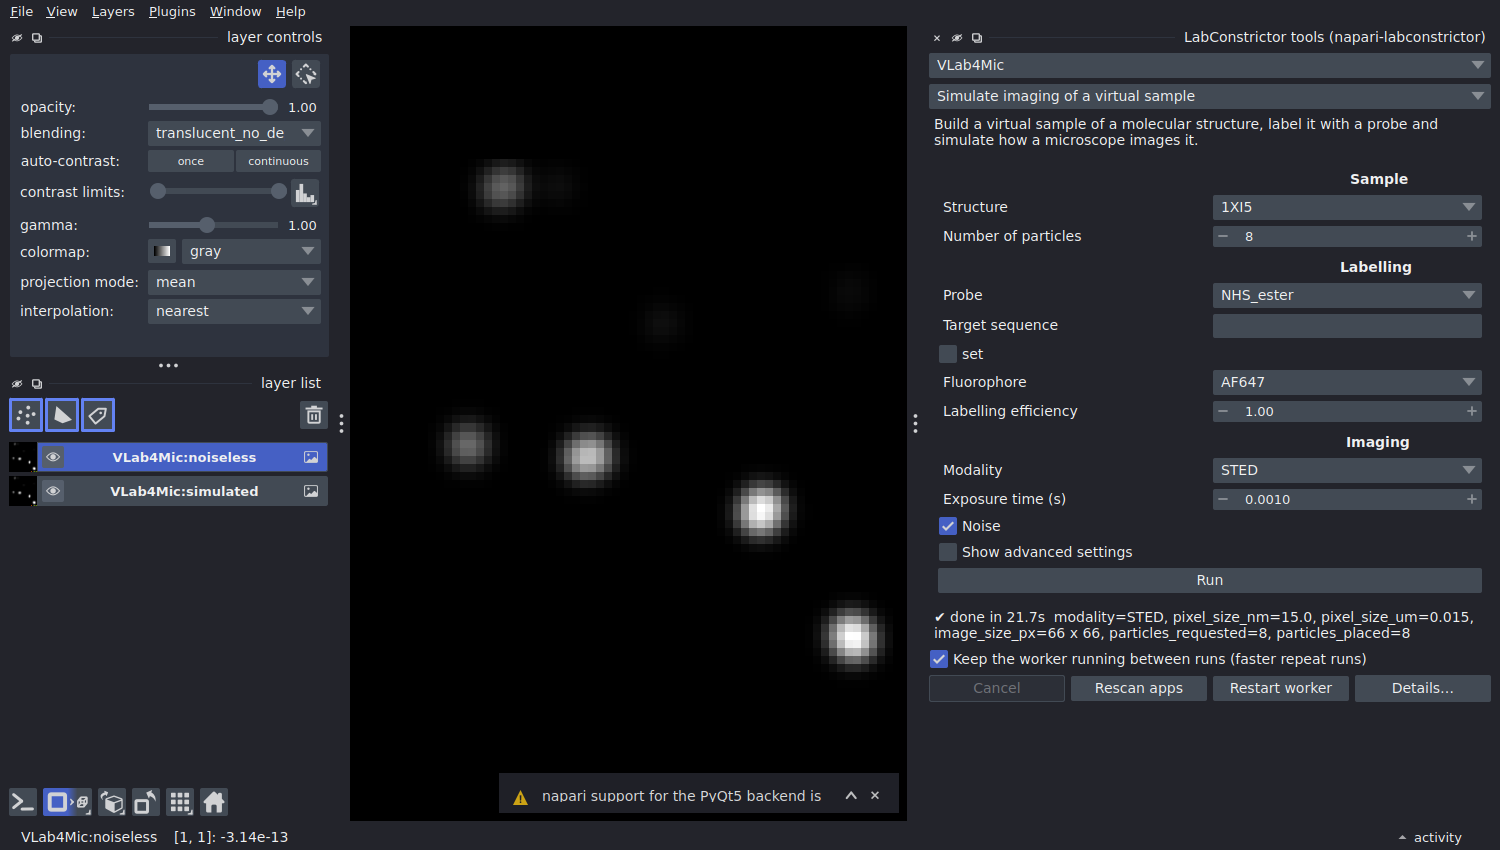
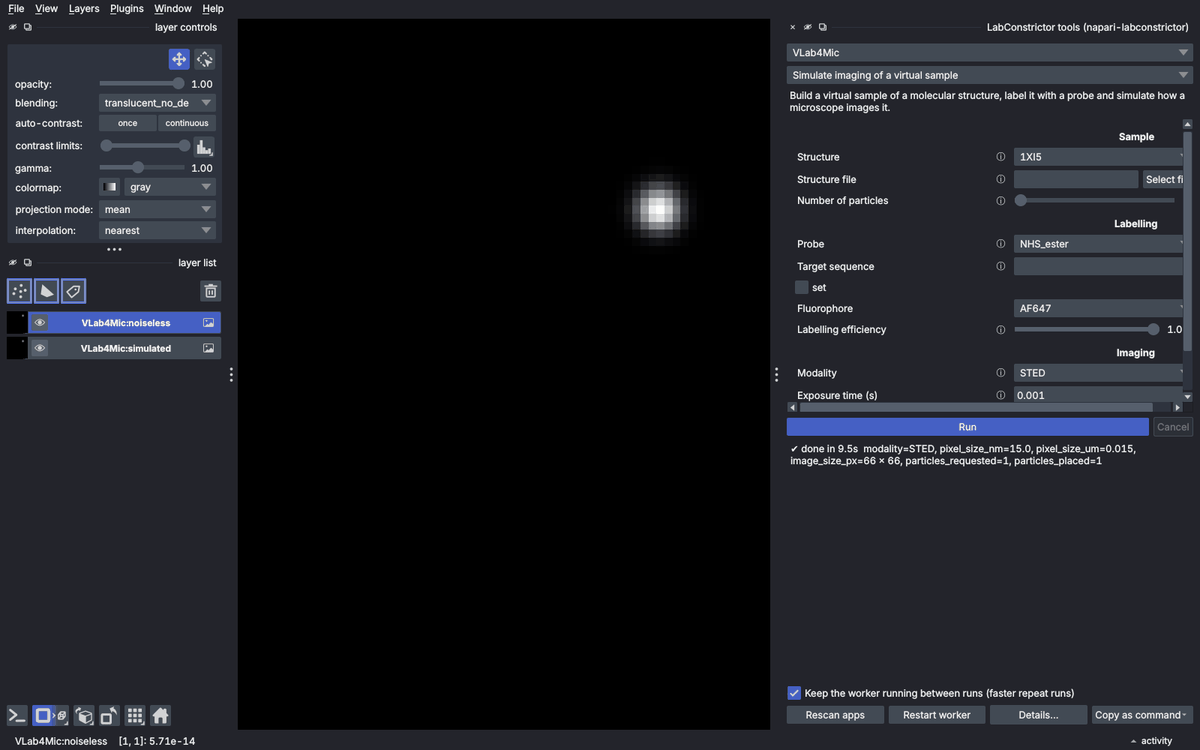
README: short and human-friendly, with screenshots; details on the website
Docs pass before the paper submission: what it is, install, first use
and help in one screen, with real screenshots of the released plugin and
apps, and links to the LabConstrictor website for the details.

Claude-Session: https://claude.ai/code/session_01Scma6VXx7mT1FYsKmB1184

diff --git a/README.md b/README.md
@@ -48,26 +48,26 @@ Installation takes around 6 to 8 minutes and is only needed once. After installi
 2. Run it and follow the prompts (choose *Install only for me*). It downloads and sets up Python and VLab4Mic; the window may look idle for a while.
 3. Windows: if it warns that the publisher is unknown, click **More info**, then **Run anyway**. macOS: if it refuses to open, go to **System Settings > Privacy & Security**, scroll to *Security* and click **Open Anyway**. Step-by-step pictures: [installation guide](.tools/docs/download_executable.md).
 
-You now have the VLab4Mic notebook app. To use it from napari or Fiji, continue below; the app must stay installed, because the two programs only show its tools. How to install the napari and Fiji bridge and how to test it: [LabConstrictor-Tools docs](https://github.com/CellMigrationLab/LabConstrictor-Tools/tree/main/docs).
+You now have the VLab4Mic notebook app. To use it from napari or Fiji, continue below; the app must stay installed, because the two programs only show its tools. The guides for both programs are on the LabConstrictor website: [napari](https://cellmigrationlab.github.io/LabConstrictor-Site/guides/napari/) and [Fiji](https://cellmigrationlab.github.io/LabConstrictor-Site/guides/fiji/).
 
 ### 2. First simulation in napari
 1. Install the two small napari add-ons into the Python environment where napari lives, then restart napari ([details](https://github.com/CellMigrationLab/LabConstrictor-napari#install)):
    ```
    pip install https://github.com/CellMigrationLab/LabConstrictor-Tools/archive/refs/tags/v0.3.0-alpha.2.zip
-   pip install https://github.com/CellMigrationLab/LabConstrictor-napari/archive/refs/heads/main.zip
+   pip install https://github.com/CellMigrationLab/LabConstrictor-napari/archive/refs/tags/v0.1.0-alpha.5.zip
    ```
 2. In napari open **Plugins > LabConstrictor tools**. Pick **VLab4Mic**, then **Simulate imaging of a virtual sample**. The form is the same as the notebook's: structure, labelling, imaging. The advanced settings are behind *Show advanced settings*; the form scrolls.
 
    ![The VLab4Mic form in napari](docs/img/howto_napari_form.png)
 
-3. Choose a modality (here STED, 8 particles) and press **Run**. The first run downloads the structure and can take a minute; later runs take from about 10 seconds (small structure, STED) to over a minute (nuclear pore, SMLM). Stopping a run takes effect between its stages. The line under the form tells you the result and the pixel size.
+3. Choose a modality (here STED, one particle) and press **Run**. The first run downloads the structure and can take a minute; later runs take from about 10 seconds (small structure, STED) to over a minute (nuclear pore, SMLM). Stopping a run takes effect between its stages. The line under the form tells you the result and the pixel size.
 
    ![A simulated STED image in napari](docs/img/howto_napari_result.png)
 
 4. You get two layers, `VLab4Mic:simulated` and `VLab4Mic:noiseless`. Every new run **replaces** them. To keep a result, rename its layer: a renamed layer is never replaced.
 
 ### 3. First simulation in Fiji
-1. Copy `labconstrictor-fiji-*.jar` into `Fiji.app/plugins/` and restart Fiji ([details](https://github.com/CellMigrationLab/LabConstrictor-Fiji#install)).
+1. Download `labconstrictor-fiji-<version>.jar` from the [Fiji plugin's releases](https://github.com/CellMigrationLab/LabConstrictor-Fiji/releases), copy it into `Fiji.app/plugins/` and restart Fiji ([details](https://github.com/CellMigrationLab/LabConstrictor-Fiji#install)).
 2. Choose **Plugins > LabConstrictor > LabConstrictor Tools...**, pick **VLab4Mic** and **Simulate imaging of a virtual sample**. The dialog has the same settings, grouped as in the notebook.
 
    ![The VLab4Mic dialog in Fiji](docs/img/howto_fiji_dialog.png)
@@ -90,7 +90,7 @@ You now have the VLab4Mic notebook app. To use it from napari or Fiji, continue 
 
 VLab4Mic's tools are listed in napari and Fiji, not in QuPath.
 
-The installer also registers two VLab4Mic tools for the [LabConstrictor tools bridge](https://github.com/CellMigrationLab/LabConstrictor-Tools), so that [napari](https://github.com/CellMigrationLab/LabConstrictor-napari) and [Fiji](https://github.com/CellMigrationLab/LabConstrictor-Fiji) show them as forms, and so that the command line can run them:
+The installer also registers two VLab4Mic tools on your computer, so that the LabConstrictor plugins for [napari](https://github.com/CellMigrationLab/LabConstrictor-napari) and [Fiji](https://github.com/CellMigrationLab/LabConstrictor-Fiji) show them as forms, and so that the command line can run them (more on the [LabConstrictor website](https://cellmigrationlab.github.io/LabConstrictor-Site/guides/image-software/)):
 
 | Tool | What it does |
 |---|---|
@@ -142,7 +142,3 @@ If you use VLab4Mic in your research, please cite:
 ## License
 
 Released under the [MIT License](LICENSE).
-
-## 🔄 Automatic Template Updates
-
-LabConstrictor can prepare pull requests that keep this repository aligned with improvements in the main template, including updates to GitHub Actions workflows. Complete the one-time [automatic synchronization setup](.tools/docs/template_synchronization.md) to enable these updates.
